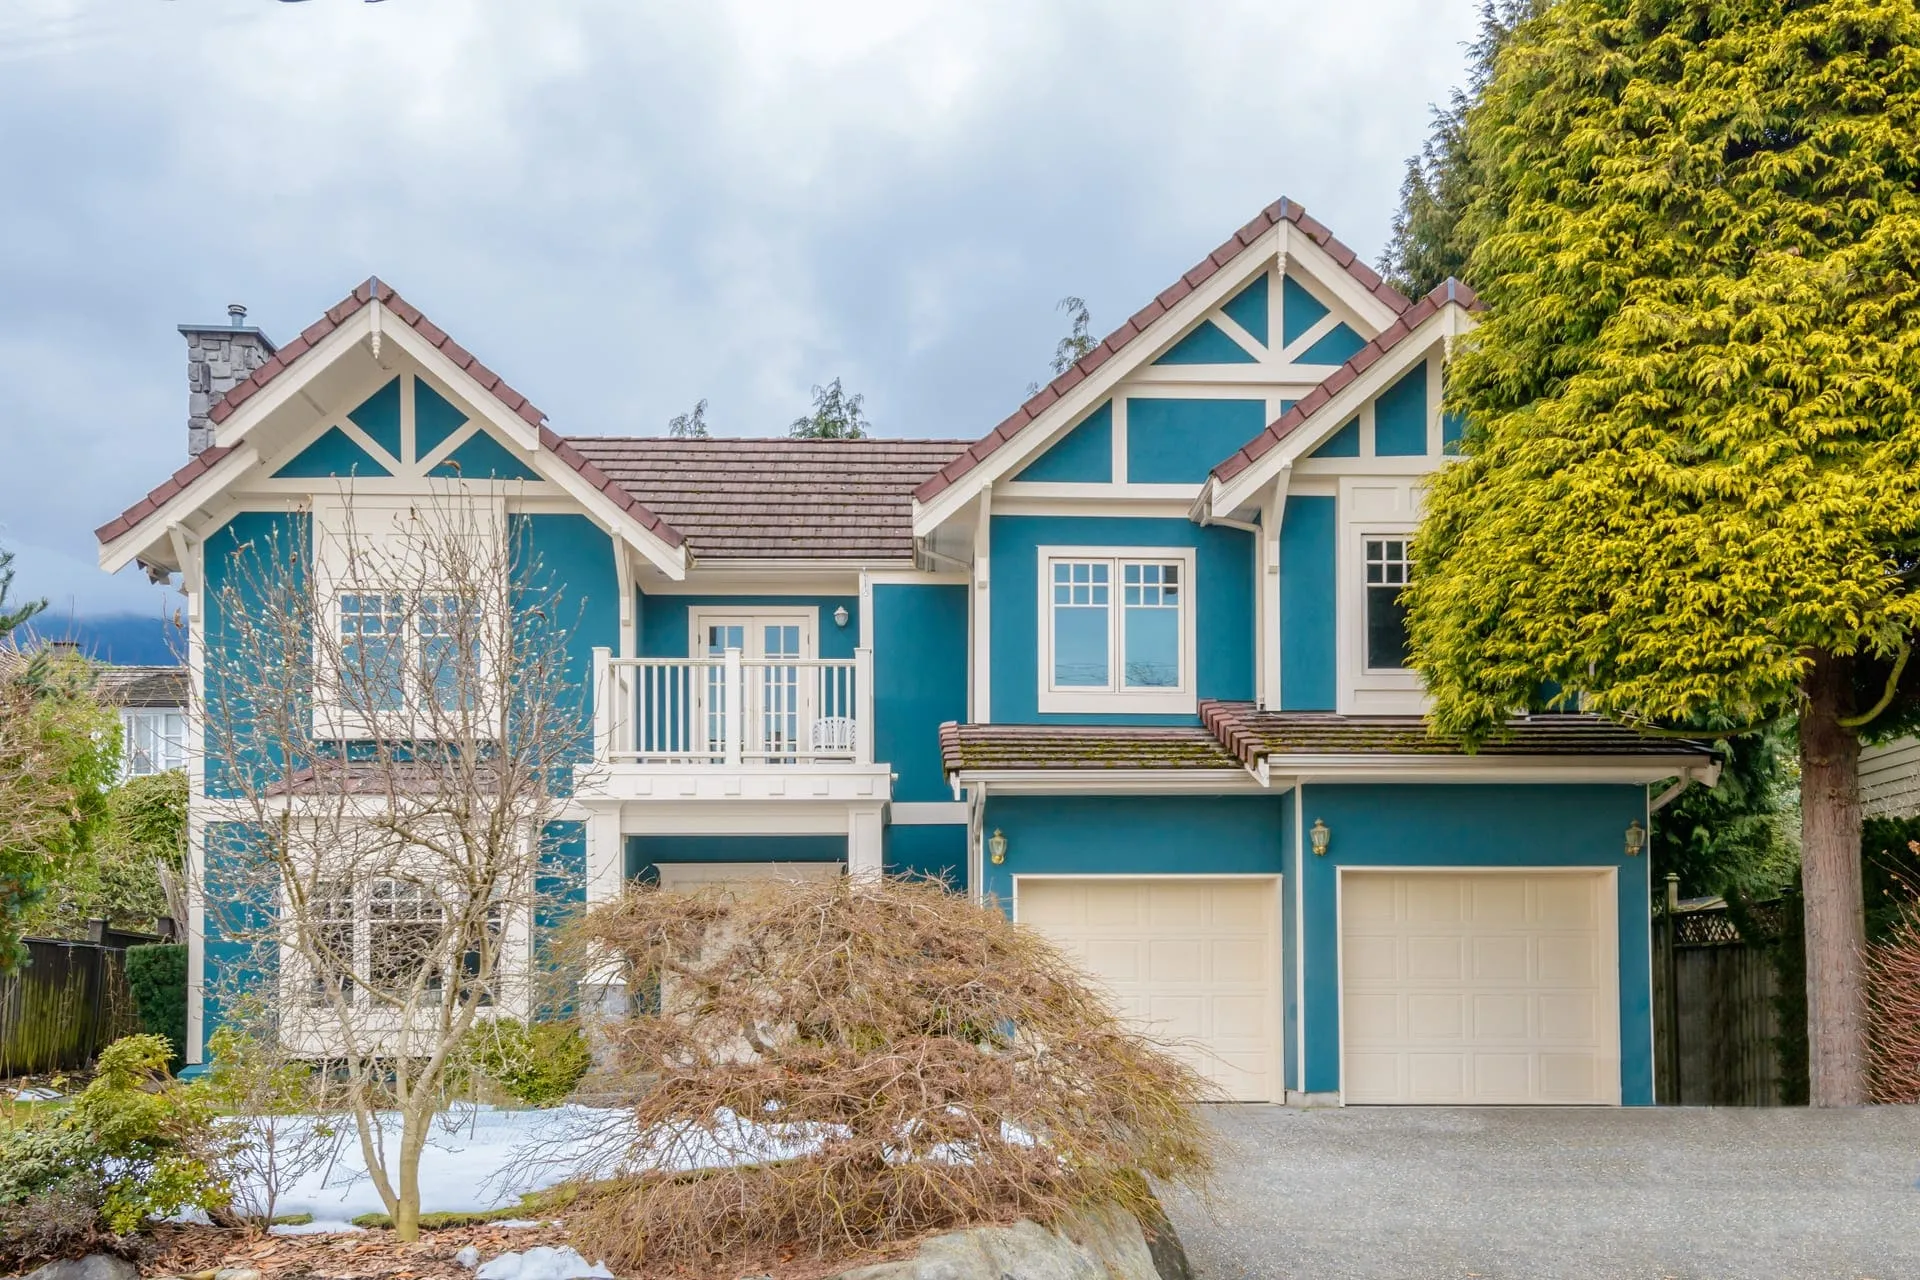
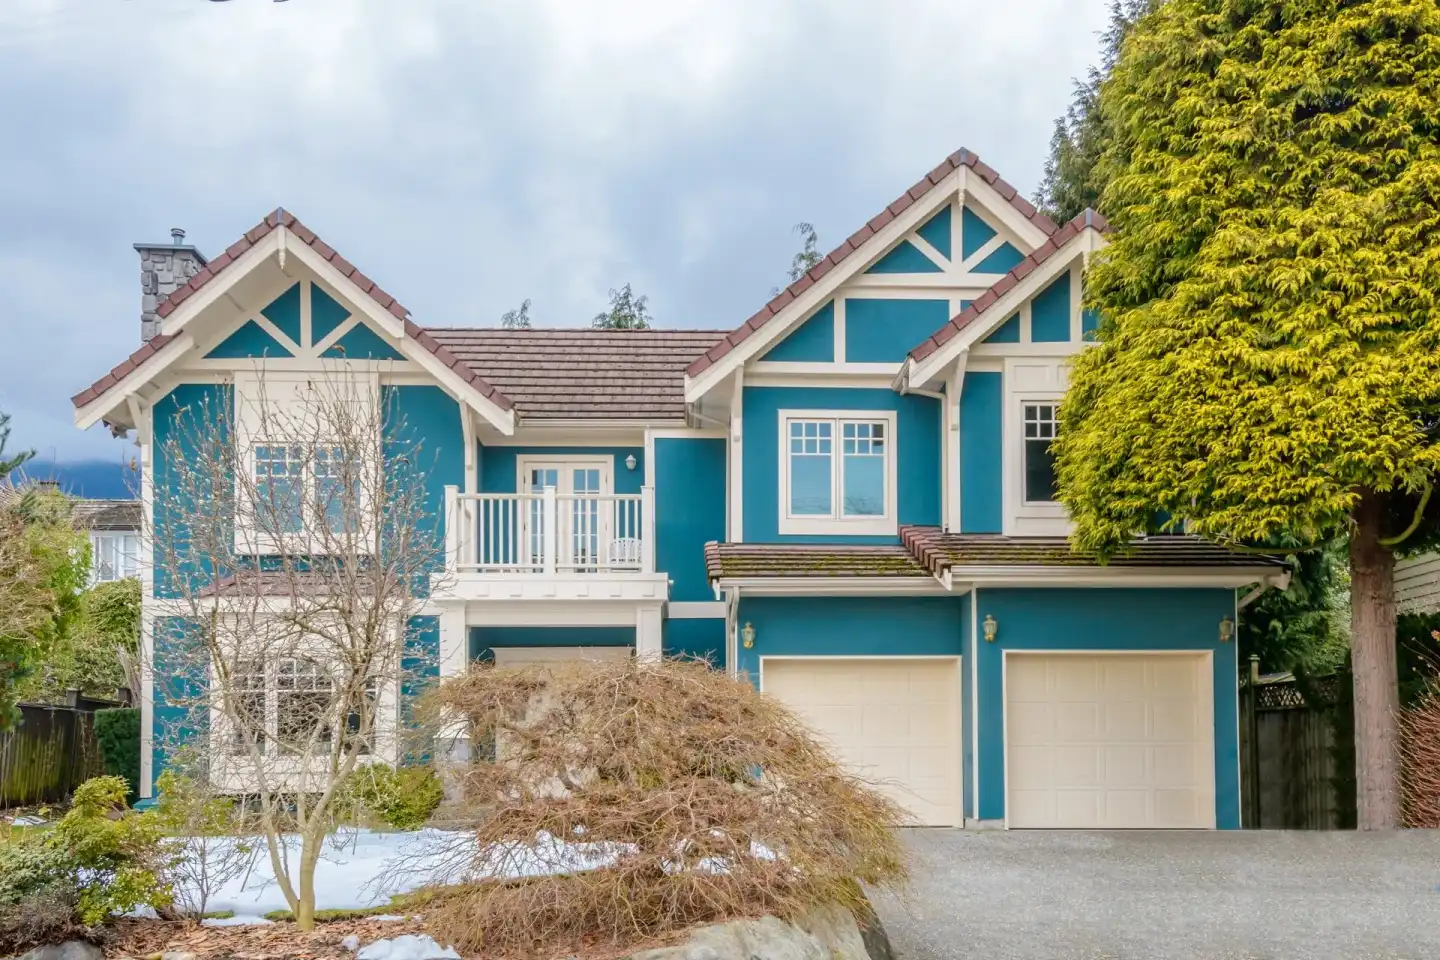
CWV: hero image compression (416KB→151KB), reduce hero fade transition to 200ms, remove jarallax JS

diff --git a/build.js b/build.js
@@ -50,6 +50,17 @@ function write(relPath, html) {
 // â"€â"€ Setup â"€â"€â"€â"€â"€â"€â"€â"€â"€â"€â"€â"€â"€â"€â"€â"€â"€â"€â"€â"€â"€â"€â"€â"€â"€â"€â"€â"€â"€â"€â"€â"€â"€â"€â"€â"€â"€â"€â"€â"€â"€â"€â"€â"€â"€â"€â"€â"€â"€â"€â"€â"€â"€â"€â"€â"€â"€â"€
 ensureDir(DIST);
 copyDir(path.join(ROOT, 'assets'), path.join(DIST, 'assets'));
+// Generate mobile hero variant (800px @ q68 ~70KB) — desktop is pre-compressed in source
+// Source: assets/images/backgrounds/slider-3-1.webp (151KB @ 1440px q50)
+{
+  const sharp = require('sharp');
+  const heroSrc = path.join(DIST, 'assets', 'images', 'backgrounds', 'slider-3-1.webp');
+  const heroMobile = path.join(DIST, 'assets', 'images', 'backgrounds', 'slider-3-1-mobile.webp');
+  if (fs.existsSync(heroSrc) && !fs.existsSync(heroMobile)) {
+    sharp(heroSrc).resize(800, null, { withoutEnlargement: true }).webp({ quality: 68 })
+      .toFile(heroMobile).then(() => {}).catch(() => {});
+  }
+}
 // Copy root config files to dist
 ['_headers', '_redirects', 'robots.txt', 'sitemap.xml'].forEach(f => {
   const src = path.join(ROOT, f);
@@ -161,8 +172,20 @@ function buildHomepage() {
     },
   ];
 
-  const sliderHTML = sliders.map(s => `<div class="main-slider-one__item">
-  <div class="main-slider-one__bg" style="background-image:url(/assets/images/backgrounds/${s.bg});"></div>
+  const sliderHTML = sliders.map(s => {
+    // Use WebP path for LCP hero image
+    const bgWebp = s.bg.replace(/\.(jpg|jpeg)$/i, '.webp');
+    const bgMobile = bgWebp.replace('.webp', '-mobile.webp');
+    return `<div class="main-slider-one__item">
+  <div class="main-slider-one__bg">
+    <img
+      src="/assets/images/backgrounds/${bgWebp}"
+      srcset="/assets/images/backgrounds/${bgMobile} 800w, /assets/images/backgrounds/${bgWebp} 1440w"
+      sizes="(max-width:800px) 800px, 1440px"
+      alt="" width="1440" height="960"
+      fetchpriority="high" decoding="sync"
+      style="position:absolute;top:-5%;left:0;width:100%;height:110%;object-fit:cover;object-position:center;">
+  </div>
   <div class="container"><div class="row align-items-center gutter-y-30"><div class="col-lg-7">
     <div class="main-slider-one__content">
       <h6 class="main-slider-one__sub-title">${s.sub}</h6>
@@ -177,7 +200,7 @@ function buildHomepage() {
     </div>
   </div></div></div>
 
-</div>`).join('\n');
+</div>`; }).join('\n');
 
   const features = [
     { icon:'fa-solid fa-lightbulb', title:'10 Year Systems', link:'/exterior-painting/index.html' },

diff --git a/build-templates.js b/build-templates.js
@@ -11,7 +11,8 @@ function htmlHead(title, desc, canonicalUrl, preloadImage) {
 <meta name="description" content="${desc}">
 <meta name="robots" content="index, follow">
 ${canonicalUrl ? `<link rel="canonical" href="${canonicalUrl}">` : ''}
-${preloadImage ? `<link rel="preload" as="image" href="${preloadImage.replace(/\.(jpg|jpeg)$/i, '.webp')}">` : ''}
+${preloadImage ? `<link rel="preload" as="image" href="${preloadImage.replace(/\.(jpg|jpeg)$/i, '-mobile.webp')}" media="(max-width:800px)">
+<link rel="preload" as="image" href="${preloadImage.replace(/\.(jpg|jpeg)$/i, '.webp')}" media="(min-width:801px)">` : ''}
 <!-- Open Graph / Social Share -->
 <meta property="og:type" content="website">
 <meta property="og:site_name" content="Timnath Painting">
@@ -45,7 +46,7 @@ ${preloadImage ? `<link rel="preload" as="image" href="${preloadImage.replace(/\
 <link rel="stylesheet" href="/assets/css/timnath-overrides.css">
 <!-- Preload FontAwesome webfont to prevent header layout shift -->
 <link rel="preload" href="/assets/vendors/fontawesome/webfonts/fa-solid-900.woff2" as="font" type="font/woff2" crossorigin>
-<!-- Non-critical CSS — deferred async (no visible layout impact above fold) -->
+<!-- Non-critical CSS — deferred async (no layout impact above fold) -->
 <link rel="preload" href="/assets/vendors/animate/animate.min.css" as="style" onload="this.onload=null;this.rel='stylesheet'">
 <link rel="preload" href="/assets/vendors/bootstrap-select/bootstrap-select.min.css" as="style" onload="this.onload=null;this.rel='stylesheet'">
 <link rel="preload" href="/assets/vendors/jquery-ui/jquery-ui.css" as="style" onload="this.onload=null;this.rel='stylesheet'">
@@ -80,6 +81,11 @@ ${preloadImage ? `<link rel="preload" as="image" href="${preloadImage.replace(/\
 .main-slider-one__carousel:not(.owl-loaded) .main-slider-one__item ~ .main-slider-one__item {
   position: absolute; top: 0; left: 0; width: 100%; visibility: hidden; pointer-events: none;
 }
+/* CWV: Hero LCP img — fills the .main-slider-one__bg container the same way the CSS bg-image did */
+.main-slider-one__bg img { position:absolute;top:-5%;left:0;width:100%;height:110%;object-fit:cover;object-position:center; }
+/* CWV: Hero transition speed — reduce 1000ms wallox fade to 200ms */
+.main-slider-one__bg { transition-duration: 200ms, 200ms !important; }
+
 /* CWV: Stabilize about-one layout */
 .about-one { contain: layout; }
 /* CWV: Tagline letter-spacing via CSS — eliminates fixTaglines JS setTimeout (which caused CLS) */